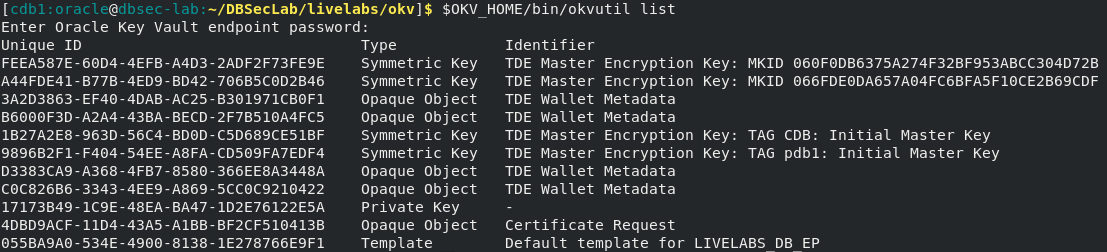
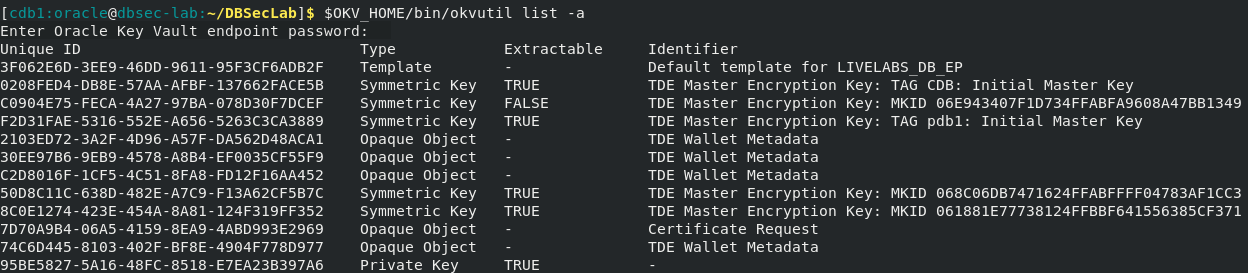
Updated per Peter's final comments

Changed region(s): [[0.0, 0.0, 1.0, 1.0]]

diff --git a/database/advanced/key-vault-new/key-vault-Lab10.md b/database/advanced/key-vault-new/key-vault-Lab10.md
@@ -33,7 +33,7 @@ This lab assumes you have completed lab 9.
     col "container" format a10
     select b.name "CONTAINER", a.MASTERKEYID "MASTER ENCRYPTION KEY ID"
       from v$database_key_info a join v$containers b on a.con_id = b.con_id
-      where b.name in ('CDB$ROOT');
+      where b.name in ('CDB$ROOT', 'PDB1');
     exit;
     </copy>
     ```
@@ -54,7 +54,7 @@ This lab assumes you have completed lab 9.
 
     ![Key Vault](./images/Screenshot_2025-10-07_23.29.07.png "Execute a re-key operation without using the Key Vault password")
 
-4. Verify that the tablespace was re-keyed
+4. Verify that both CDB$ROOT and PDB1 have a new TDE master key
 
     ```
     <copy>
@@ -62,7 +62,7 @@ This lab assumes you have completed lab 9.
     col "container" format a10
     select b.name "CONTAINER", a.MASTERKEYID "MASTER ENCRYPTION KEY ID"
       from v$database_key_info a join v$containers b on a.con_id = b.con_id
-      where b.name in ('CDB$ROOT');
+      where b.name in ('CDB$ROOT', 'PDB1');
     exit;
     </copy>
     ```

diff --git a/database/advanced/key-vault-new/key-vault-Lab8.md b/database/advanced/key-vault-new/key-vault-Lab8.md
@@ -89,8 +89,8 @@ This lab assumes you have completed lab 5.
 
     ````
     <copy>
-    $OKV_HOME/bin/okvutil list
+    $OKV_HOME/bin/okvutil list -a
     </copy>
     ````
 
-   ![Key Vault](./images/Screenshot_2025-10-03_16.04.40.png "Confirm that the server is reachable")
+   ![Key Vault](./images/Screenshot_2025-11-10_16.37.08.png "Confirm that the server is reachable")

diff --git a/database/advanced/key-vault-new/key-vault-Lab9.md b/database/advanced/key-vault-new/key-vault-Lab9.md
@@ -100,7 +100,7 @@ This lab assumes you have completed lab 8.
 
     ````
     <copy>
-    $OKV_HOME/bin/okvutil list
+    $OKV_HOME/bin/okvutil list -a
     </copy>
     ````
 
